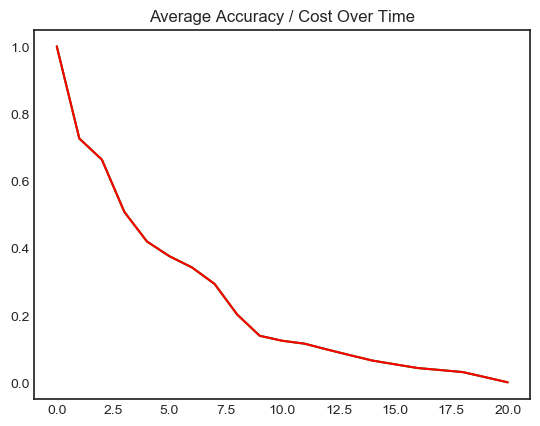
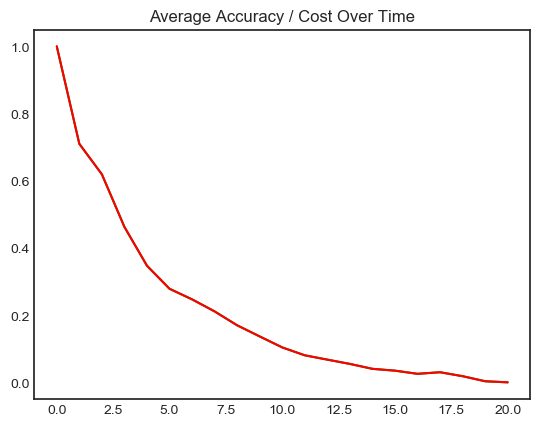
s

diff --git a/NeuralNetwork/LSTM-GAN/c_gan.py b/NeuralNetwork/LSTM-GAN/c_gan.py
@@ -107,14 +107,17 @@ class CNN_3D():
     
     def __init__(self,filter_depth,filter_height,filter_width,in_channels,out_channels,act=tf_elu,d_act=d_tf_elu):
         self.w = tf.Variable(tf.random_normal([filter_depth,filter_height,filter_width,in_channels,out_channels],stddev=0.05,seed=2,dtype=tf.float64))
+        self.b = tf.Variable(tf.random_normal([out_channels],stddev=0.05,seed=2,dtype=tf.float64))
         self.act,self.d_act = act,d_act
     def getw(self): return [self.w]
-    def feedforward(self,input,stride=1,padding='SAME'):
+    def feedforward(self,input,stride=1,padding='SAME',res=True):
         self.input  = input
-        self.layer  = tf.nn.conv3d(input,self.w,strides=[1,1,1,1,1],padding=padding)
+        self.layer  = tf.nn.conv3d(input,self.w,strides=[1,1,1,1,1],padding=padding) + self.b
         self.layerA = self.act(self.layer)
-        return self.layerA 
-
+        if res:
+            return self.layerA + self.input
+        else:
+            return self.layerA 
 
 class CNN_Trans():
     
@@ -273,34 +276,34 @@ print(test_label.min(axis=(1,2,3)).max())
 print('-----------------------')
 
 # class
-g0 = CNN_3D(3,3,3,1,3)
-g1 = CNN_3D(3,3,3,3,6)
+g0 = CNN_3D(3,3,3,1,6)
+g1 = CNN_3D(3,3,3,6,6)
 g2 = CNN_3D(3,1,1,6,6)
-g3 = CNN_3D(3,3,3,6,3)
-g4 = CNN_3D(3,3,3,3,1,act=tf_sigmoid)
+g3 = CNN_3D(3,3,3,6,6)
+g4 = CNN_3D(3,3,3,6,1,act=tf_sigmoid)
 
-d0 = CNN_3D(3,3,3,1,3)
-d1 = CNN_3D(3,3,3,3,6)
+d0 = CNN_3D(3,3,3,1,6)
+d1 = CNN_3D(3,3,3,6,6)
 d2 = CNN_3D(3,1,1,6,6)
-d3 = CNN_3D(3,3,3,6,3)
-d4 = CNN_3D(3,3,3,3,1,act=tf_sigmoid)
+d3 = CNN_3D(3,3,3,6,6)
+d4 = CNN_3D(3,3,3,6,1,act=tf_sigmoid)
 
 # hyper
-num_epoch = 10
-learning_rate = 0.0005
+num_epoch = 21
+learning_rate = 0.001
 batch_size = 2
 print_size = 1
-divide_size = 4
+divide_size = 3
 
 # graph
 x = tf.placeholder(shape=(batch_size,divide_size,64,64,1),dtype=tf.float64)
 y = tf.placeholder(shape=(batch_size,divide_size,64,64,1),dtype=tf.float64)
 
 layer0_g = g0.feedforward(x)
-layer1_g = g1.feedforward(layer0)
-layer2_g = g2.feedforward(layer1)
-layer3_g = g3.feedforward(layer2)
-layer4_g = g4.feedforward(layer3)
+layer1_g = g1.feedforward(layer0_g)
+layer2_g = g2.feedforward(layer1_g)
+layer3_g = g3.feedforward(layer2_g)
+layer4_g = g4.feedforward(layer3_g)
 
 true_d_1 = d0.feedforward(y)
 true_d_2 = d1.feedforward(true_d_1)
@@ -313,14 +316,16 @@ fake_d_2 = d1.feedforward(fake_d_1)
 fake_d_3 = d2.feedforward(fake_d_2)
 fake_d_4 = d3.feedforward(fake_d_3)
 fake_d_f = d4.feedforward(fake_d_4)
+d_weights = d0.getw() + d1.getw() + d2.getw() + d3.getw() + d4.getw() 
+g_weights = g0.getw() + g1.getw() + g2.getw() + g3.getw() + g4.getw() 
 
 # ----- losses
-G_loss = -tf.reduce_mean(tf.log(fake_d_f+1e-10)) 
 D_loss = -tf.reduce_mean(tf.log(true_d_f+1e-10) + tf.log(1.0 - fake_d_f+1e-10))
+G_loss = -tf.reduce_mean(tf.log(fake_d_f+1e-10)) 
 
 # --- training
-auto_d_train = tf.train.AdamOptimizer(learning_rate=learning_rate).minimize(D_loss)
-auto_g_train = tf.train.AdamOptimizer(learning_rate=learning_rate).minimize(G_loss)
+auto_d_train = tf.train.AdamOptimizer(learning_rate=learning_rate).minimize(D_loss,var_list= d_weights)
+auto_g_train = tf.train.AdamOptimizer(learning_rate=learning_rate).minimize(G_loss,var_list= g_weights)
 
 # sess
 with tf.Session() as sess:
@@ -346,7 +351,12 @@ with tf.Session() as sess:
             for divide_batch_index in range(0,192,divide_size):
                 current_batch_divide = current_batch[:,divide_batch_index:divide_batch_index+divide_size,:,:,:]
                 current_batch_label_divide = current_batch_label[:,divide_batch_index:divide_batch_index+divide_size,:,:,:]
-                sess_result = sess.run([total_cost,auto_train],feed_dict={x:current_batch_divide,y:current_batch_label_divide})
+
+                sess_result = sess.run([D_loss,auto_d_train],feed_dict={x:current_batch_divide,y:current_batch_label_divide})
+                print("Current Iter : ",iter,' current batch: ',batch_size_index ,' current divide index : ',divide_batch_index ,' Current cost: ', sess_result[0],end='\r')
+                train_cota = train_cota + sess_result[0]
+
+                sess_result = sess.run([G_loss,auto_g_train],feed_dict={x:current_batch_divide})
                 print("Current Iter : ",iter,' current batch: ',batch_size_index ,' current divide index : ',divide_batch_index ,' Current cost: ', sess_result[0],end='\r')
                 train_cota = train_cota + sess_result[0]
 
@@ -357,10 +367,15 @@ with tf.Session() as sess:
             for divide_batch_index in range(0,192,divide_size):
                 current_batch_divide = current_batch[:,divide_batch_index:divide_batch_index+divide_size,:,:,:]
                 current_batch_label_divide = current_batch_label[:,divide_batch_index:divide_batch_index+divide_size,:,:,:]
-                sess_result = sess.run([total_cost],feed_dict={x:current_batch_divide,y:current_batch_label_divide})
+
+                sess_result = sess.run([D_loss],feed_dict={x:current_batch_divide,y:current_batch_label_divide})
                 print("Current Iter : ",iter,' current batch: ',batch_size_index ,' current divide index : ',divide_batch_index ,' Current cost: ', sess_result[0],end='\r')
                 test_cota = test_cota + sess_result[0]
-            
+
+                sess_result = sess.run([G_loss],feed_dict={x:current_batch_divide})
+                print("Current Iter : ",iter,' current batch: ',batch_size_index ,' current divide index : ',divide_batch_index ,' Current cost: ', sess_result[0],end='\r')
+                train_cota = train_cota + sess_result[0]
+
         # if it is print size print the cost and Sample Image
         if iter % print_size==0:
             print("\n--------------")   
@@ -393,7 +408,7 @@ with tf.Session() as sess:
         current_batch_label = test_label[batch_size_index:batch_size_index+batch_size]
         for divide_batch_index in range(0,192,divide_size):
             current_batch_divide = current_batch[:,divide_batch_index:divide_batch_index+divide_size,:,:,:]
-            sess_result = sess.run(layer4,feed_dict={x:current_batch_divide})
+            sess_result = sess.run(layer4_g,feed_dict={x:current_batch_divide})
             final_output[:,divide_batch_index:divide_batch_index+divide_size,:,:,:] = sess_result
 
     np.save('test_data.npy',test_batch)

diff --git a/NeuralNetwork/LSTM-GAN/z_read_case.py b/NeuralNetwork/LSTM-GAN/z_read_case.py
@@ -241,9 +241,9 @@ class Sparse_Filter_Layer():
 # ================= LAYER CLASSES =================
 
 # read the data
-test_data= np.squeeze(np.load('./casea_conv/test_data.npy'))[1]
-test_label_gt= np.squeeze(np.load('./casea_conv/test_label_gt.npy'))[1]
-test_label_pd= np.squeeze(np.load('./casea_conv/test_label_pd.npy'))[1]
+test_data= np.squeeze(np.load('./test_data.npy'))[1]
+test_label_gt= np.squeeze(np.load('./test_label_gt.npy'))[1]
+test_label_pd= np.squeeze(np.load('./test_label_pd.npy'))[1]
 
 print(test_data.shape)
 print(test_label_gt.shape)
